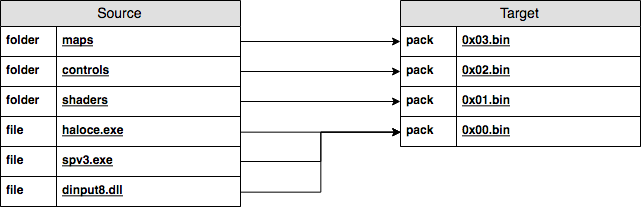
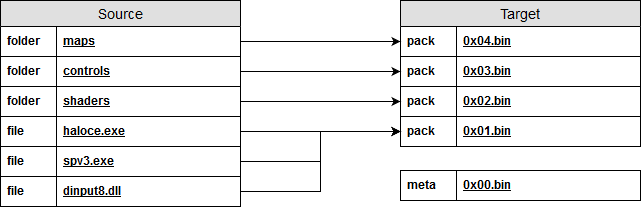
Update documentation, screenshot & diagrams

diff --git a/doc/specification.md b/doc/specification.md
@@ -55,17 +55,15 @@ belonging to HCE or SPV3.
 The core package is named `0x01.bin`, and the subdirectory packages have their
 own numbers. 
 
-## File
+## Entry
 
-A file, in this context, is a member of the [Package](#package) entity. It can
-be imagined as an entry in an archive file. The `File` type is used by the
-library to determine which files should be backed up prior to installing SPV3.
+An Entry is a member of the [Package](#package) entity. It is effectively a file
+in the archive on the filesystem. Entries are comprised of:
 
-This section covers the installation, backup and persistence implementations.
+- Name: The identifier of the entry, which matches the file/directory it
+  represents.
+- Type: The kind of filesystem record (i.e. file or directory) the entry
+  represents.
 
-- [**Installation**](#installation): the routine of extracting the SPV3.2 files
-  from the packages to the filesystem.
-- [**Backup**](./specification.md): pre-installation backup of SPV3.2 files
-  which may already exist on the filesystem.
-- [**Persistence**](#persistence): storing the installation manifest, including
-  what files to install & where.
+Entries are used by the  library to determine which files should be backed up
+prior to installing SPV3.
